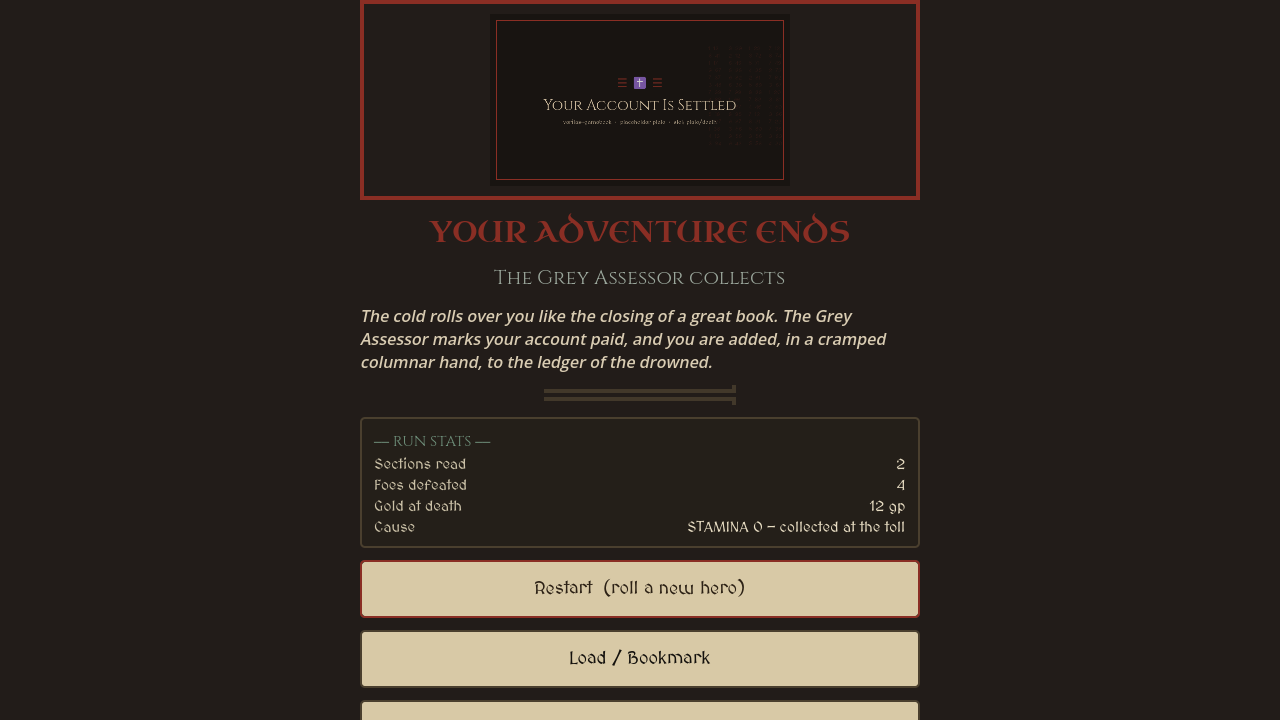
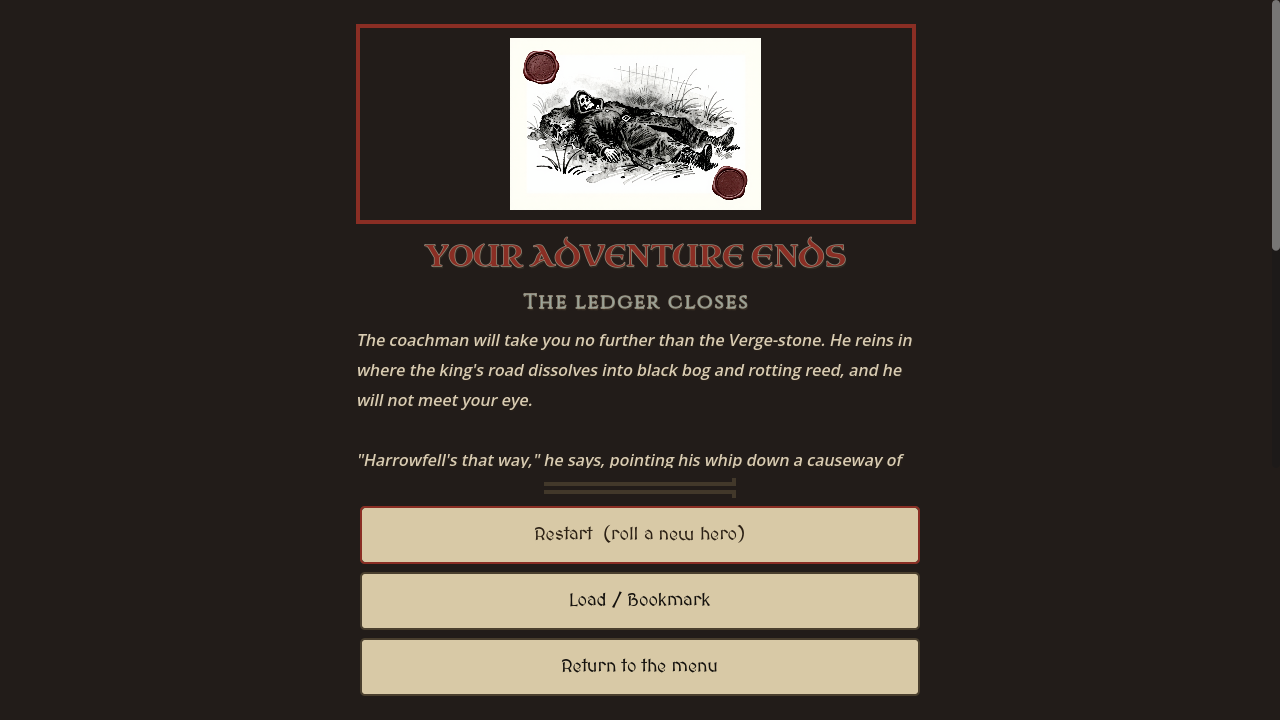
fix(ff-gamebook): death/victory screens no longer cut off — scroll body + PINNED action footer (Restart/Load/Menu always visible+reachable); Load now opens the slot picker. + harvest doc (Veritas/Sorcery/Prince Jerian)

Changed region(s): [[0.2812, 0.0, 0.7188, 1.0], [0.9688, 0.0, 1.0, 0.3361], [0.2812, 0.2444, 0.3125, 0.275]]

diff --git a/docs/inspiration/ff-gamebook/HARVEST_VERITAS_SORCERY.md b/docs/inspiration/ff-gamebook/HARVEST_VERITAS_SORCERY.md
@@ -1,0 +1,114 @@
+# Harvest — Veritas Tales · inkle *Sorcery!* · *Prince Jerian* / *Sir Brante* → `ff-gamebook`
+
+> **Purpose.** Focused idea-harvest from three reference games for our illustrated Fighting-Fantasy gamebook (`ff-gamebook`, SP + MP + dual DM). This *supplements* the existing [`INSPIRATION.md`](INSPIRATION.md) (FF canon + Tin Man + a first Sorcery! pass) and [`../../gdd/ff-gamebook/GDD.md`](../../gdd/ff-gamebook/GDD.md) — it captures what those docs **don't already cover** and turns it into a ranked "fold into FF" list. Web-research → doc only; no template/code touched.
+>
+> **Why these three.** Two are the *namesakes of our art lanes*: **Veritas Tales** = the `veritas-gamebook` ink+watercolor FF-plate style (default, ship-ready); **Sir Brante** (and its same-studio successor **Prince Jerian**) = the `sir-brante` sepia-engraving variant. Sorcery! is the immersion/UX gold standard Jesus flagged.
+>
+> **IP stance (unchanged).** We harvest **mechanics + UX patterns only**. All world, art, monsters, text, spell names, faction names, and the "deaths economy" framing ship as **original NoxDev content** in *The Grey Tithe*. No trademarks, no reproduced text/art. Every idea below is genre-mechanic, not a reproducible asset.
+
+---
+
+## A. Veritas Tales: Witch of the Dark Castle
+
+**What it is.** A "reading-style" fantasy adventure RPG (Steam 4508570; Digitalis Publishing / 15 Industry; July 8 2026; **Very Positive**, 87% of 159). Explicitly an homage to *GrailQuest, Sorcery!, Fighting Fantasy* — i.e. the exact lineage of our flagship. 150,000+ words, 20+ hrs, 300+ hand-drawn illustrations by one ex-Vanillaware artist (Nishimura) over six years; score by Hitoshi Sakimoto (*FF Tactics, Vagrant Story*). No generative AI ("a soul only found in something truly handmade"). This is the closest living relative to what we're building, done gorgeously — study it hard.
+
+**What it does well (specifics):**
+
+1. **The "magical tome on a study desk" diegetic frame — stronger than "the page is sacred."** The whole game *is* a book open on a desk, and the character sheet, stats, inventory, **dice, coins, and pencils are physically laid out on the desk beside the tome** — permanently visible, not hidden behind a menu button. It's the printed-FF ritual (photocopied Adventure Sheet + two d6 on the table) rendered literally. Reviewers single this out as the standout design.
+2. **The frame is also a *story* device.** Reviewers praise moments where "the world of the book and the world of the study become blurred" — the desk/reader layer is diegetic *and* narratively active, not just chrome. A meta-frame with payoff.
+3. **Living, emoting hero portrait.** Your chosen character *stands and animates beside the text*, reacting/emoting as the story progresses (Vanillaware-style). Enemy/ally portraits carry deliberate hand-drawn roughness (visible linework, imperfections) — the "handmade" look is a feature, and maps 1:1 onto our `veritas-gamebook` plate style.
+4. **Class pick shapes the whole run + the ruleset.** Choose **Warrior or Mage** at start. Combat is dice-driven — hit resolved by roll, **damage = difference between winner's attack stat and loser's defense** (a margin-of-success damage model, richer than FF's flat "−2 STAMINA"). Warriors do basic attacks; **Mages cast spells that *bypass the initiative roll*** — class asymmetry expressed as a combat-rules difference, not just flavor.
+5. **Three route types per encounter: combat / negotiation / evasion — all viable.** Not every gate is a fight; the same obstacle can be talked past, dodged, or fought. Choices + rolls fork the outcome.
+6. **Humane death by design: rewind-to-before-the-fatal-encounter + save-anywhere.** On death you rewind to right before the killing blow; it openly "encourages replaying and save-scumming." This is exactly our **Rewind** save mode, validated by a Very-Positive audience.
+7. **Two-run "zapping" replay (RE2-inspired).** Finish one character and it flips straight into the other's playthrough; the second run *sees the consequences of the first*, and **items you collected in run 1 disappear in run 2**. A built-in, mechanics-driven reason for the "branching second playthrough with new outcomes."
+
+**Honest weaknesses (lessons for us):**
+- **Too many "guess-and-die" decisions** — choices that kill with no fair signal. Our authoring validator + "conditional choices show their reason" rule must prevent blind-death gates (or gate them behind an explicit lethal-difficulty mode).
+- **No signposting of whether a True Ending exists** — players couldn't tell if replay was worthwhile. We should make completion state / remaining-endings legible (ties into our Victory + Gallery screens).
+
+---
+
+## B. inkle — *Sorcery!* (deeper pass; supplements INSPIRATION §3.3-B3)
+
+INSPIRATION.md already covers the hand-drawn 3D travel-map, effort-slider combat, editable "the story remembers" rewind, and spelling-as-magic. **New/sharper detail worth folding:**
+
+1. **Spellcasting is a genuine sub-game with real numbers.** 48 spells, **each a 3-letter word**; the 6 common ones are cheap (**3 STAMINA**), advanced/situational ones **require a carried item** to cast. **Wrong spell → it fizzles and still costs STAMINA.** So the spellbook itself is a puzzle you *learn* (which letters, which context, which item) — memory + risk, not a menu pick.
+2. **The spell UI evolved for a reason — a concrete design lesson.** v1 spelling was "line up letters through die-cut holes in the paper" — pretty but *fiddly, with no screen room for tutorial/among-context help*, so players had to memorize everything. v2 replaced it with the **"spell globe"**: a letter-covered sphere that's "basically a pretty touch keyboard," diegetic **but** with room for contextual hints. Takeaway: **diegetic-but-legible beats diegetic-but-fiddly** — build the beautiful version *with* affordances/tutorial space from day one.
+3. **Combat narrated on the fly, spellcasting as a first-class alternative to melee** — the fight reads as prose that responds to how you played, and magic is a parallel resolution path, not a bolt-on.
+
+---
+
+## C. *The Life and Suffering of Prince Jerian* & *Sir Brante* (Schisma Games)
+
+**What they are.** Narrative RPGs about a single life lived across chapters in a rigid, caste-divided dark-fantasy empire. **Sir Brante** = namesake of our `sir-brante` sepia-engraving art lane. **Prince Jerian** (Steam 2936290; Schisma / 101XP; July 20 2026) = same universe, "completely different story," new mechanics for a crown-prince role. Tags span Narrative RPG / Life Sim / Political Sim / Interactive Fiction / Choose-Your-Own-Adventure. These are the reference for **making choices feel *heavy and permanent*** — the opposite pole from Veritas's save-scum-friendly rewind, and a deliberate design tension for us to expose as a mode.
+
+**What they do well (specifics):**
+
+1. **The "Four Deaths" economy — death as a *spendable resource*, not just a fail-state.** In Brante you have **4 Deaths**; the 4th is a **True Death** you can't return from. A **Lesser Death** is often *chosen*: you spend a life to earn a "hearty boon" — stat jumps, reputation, or unlocking events/Destinies otherwise unreachable, plus unique post-death dialogue and a permanent mark. **Dying is a tactical decision with a budget.** This is a brilliant reframing of FF's brutal permadeath into something with agency.
+2. **Chapter / life-path arc with stats that compound.** Childhood → Adolescence → Adult(hood) chapters; stats earned early **carry and derive forward** (adult stats are computed from chapter 1-2 choices), and they steer you toward one of several **mutually-exclusive life paths** (Noble / Priest / Lotless). Long-arc, front-loaded consequence: who you were as a child shapes what's *possible* as an adult.
+3. **Willpower as a meta-currency for passing/boosting checks.** A pooled resource (range ~−10…30) spent to clear stat gates and to buy stat increases (e.g. a costly event trades 15 willpower for +1 stat). Makes "can I do this?" a budgeting decision, not a coin-flip.
+4. **Stat- and relationship-gated choices with visible costs.** Options appear/unlock based on stats, allegiances, and remembered choices; **"characters remember every allegiance and choice"** — they can revere you or become your downfall. Reactive NPC memory as a core loop, not garnish.
+5. **Jerian adds a faction/nation-management layer + sanity.** You balance **treasury, noble houses, clergy, and commoner unrest**; "every decision brings consequences, and your mistakes will be paid for by the entire Empire." A **sanity/psychological-degradation** track ties choices to the protagonist's mind. Non-linearity "develops gradually through chapters" (branches diverge more as you go — a deliberate ramp).
+6. **Permanent, legible weight.** The whole pitch is that nothing resets: injuries, marks, allegiances, spent deaths all persist. Choices feel heavy because the game *never lets you take them back* (no rewind), and it tells you the cost up front.
+
+**Honest weaknesses (lessons for us):**
+- **"Willpower robs the player of agency"** (a common community critique): when a meta-currency gates *too much*, players feel the system, not the story. If we adopt a willpower-like pool, keep it a spice, not the main gate.
+- **Hidden consequences / guess-the-designer** frustration also shows up here — same lesson as Veritas: consequence should be *foreshadowed*, even if not spelled out.
+
+---
+
+## D. Prioritized "fold into FF" list
+
+Ranked within each group. **Legend:** 🟢 build for v1 · 🟡 v1 if cheap / else fast-follow · 🔵 mode/COULD · ⚪ skip or watch. Cross-refs to GDD sections in brackets.
+
+### (a) SYSTEM ideas (mechanics / loops)
+
+1. 🟢 **"Deaths economy" as a save-mode, not just Ironman/Bookmarks/Rewind** *(Brante).* Add a **"Chosen Death"** ruleset to our existing death/save modes [GDD §4]: the hero has a small budget of *lesser deaths*; spending one on a fatal outcome revives you (with a permanent mark/penalty) **and** grants a state boon or unlocks a gated branch — a final "true death" ends the run. It reframes FF lethality as agency, pairs perfectly with our `apply_delta()`/codeword engine (a death = a codeword + a boon delta), and it's *original framing*, not FF canon. **Highest-value single steal here.**
+2. 🟢 **Margin-of-success damage as a per-book combat variant** *(Veritas).* Our data-driven rules layer [GDD §5] already supports per-encounter modifiers; add an optional damage model where **damage = attackStrength − defense** instead of flat −2. Keep faithful FF (flat 2) as default; expose the Veritas-style margin model as a ruleset flag for books that want crunchier fights. Directly answers INSPIRATION §5.6's "2d6 attrition feels thin."
+3. 🟢 **Three-route encounters (fight / talk / evade) as a first-class encounter shape** *(Veritas, and FF's own tradition).* Make "negotiation" and "evasion" resolutions as authorable as combat in the encounter schema [GDD §5 Encounter], each with its own stat/roll gate. This is also the natural surface for the AI-DM's intent-routing (see (c)).
+4. 🟡 **Spellbook-as-sub-game (spelling/known-spell puzzle) for a Mage archetype** *(Sorcery! + Veritas Mage).* An optional MAGIC track: a small set of **learnable, item-or-STAMINA-costed spells**, where **casting the wrong/uncontexted spell fizzles and still costs STAMINA**. Model spells as codeword-gated actions with a cost + effect. Class asymmetry (Warrior basic vs Mage bypass-initiative) becomes a ruleset, matching FF's own advanced-attribute pattern (MAGIC/FAITH) [INSPIRATION §2.5]. v1 if a spell archetype is in the shipped adventure; else fast-follow.
+5. 🟡 **Compounding chapter/life-arc stats** *(Brante).* For our ~150-400-section adventure, allow **act/chapter boundaries where earlier choices derive later capabilities** (a "who you became" checkpoint that seeds stats/codewords for the next act). Fits the structured-DM's storylet model [GDD §9a] and gives long-arc weight without a full life-sim.
+6. 🔵 **Faction/pressure meters + reactive NPC memory** *(Jerian).* A few tracked "pressure" gauges (e.g. faction favor / regional unrest) that choices nudge and later sections read. Our codeword/flag store already does booleans+counters [GDD §2.8]; this is presentation + a handful of counters. Great for the structured-DM's "tension/threat pacing." COULD for v1; strong for a political/kingdom adventure later.
+7. 🔵 **Two-run "zapping" replay with carry-over consequences** *(Veritas).* Structured New-Game+ where a second playthrough (different class/hero) sees the world changed by run 1 and loses/keeps specific items. Leans on our tiny serializable GameState. A replay-value feature, not core — COULD.
+8. ⚪ **Willpower-style meta-currency for checks** *(Brante).* Watch, don't build: community consensus is it can "rob agency." Our LUCK-drain already *is* FF's canonical spend-to-succeed resource; adding a second pool risks the same complaint. Skip unless a specific book needs it.
+
+### (b) SCREEN / UX ideas
+
+1. 🟢 **The "desk beside the tome" reading frame** *(Veritas).* Elevate the Book-Reading View [GDD §6.4]: render the Adventure Sheet, dice, coins/gold, and potions as **persistently-visible objects on the desk around the open book**, not just a HUD strip + a Sheet button. This is the printed-FF ritual made literal and is Veritas's most-praised idea — and it *is* our `veritas-gamebook` art lane. Highest-value UX steal. (Keep it responsive: desk on desktop/landscape, collapsible on mobile portrait.)
+2. 🟢 **Living, emoting hero portrait beside the text** *(Veritas).* A standing character illustration that reacts to beats (wound, luck, dread) — even a few swappable expression plates per hero, driven by state, sells "alive." Feeds our `veritas-gamebook` + optional `nxdv_knight` hero plates [GDD §7]; register expression states as asset slots in the Studio manifest [GDD §10a].
+3. 🟢 **Foreshadow consequences; make completion legible** *(Veritas + Brante lessons).* Two concrete UX rules: (i) never ship an *unsignalled* insta-death choice in default difficulty — lethal gates get atmospheric foreshadowing or a visible lock/reason [GDD §6.5]; (ii) the Victory/Gallery screens [GDD §6.13/6.15] should show endings-found / completion so players know replay is worthwhile. Cheap, and directly fixes the two flaws reviewers cite.
+4. 🟡 **Diegetic-but-legible spell UI (the "spell globe" lesson)** *(Sorcery!).* If we build the Mage track, build the beautiful diegetic caster **with tutorial/contextual space from day one** — Sorcery! shipped fiddly (letters-through-holes) then had to rebuild. Don't repeat their v1. Fold into WIREFRAMES if the spell system is greenlit.
+5. 🔵 **Sorcery!-style travel-map as the movement UI** *(Sorcery!).* Already a COULD in the GDD [§6.10, §13-COULD]; nothing changes — noting the deeper detail (day/night, route-plotting, map *is* movement) is confirmed and belongs in that optional mode, not the faithful default.
+6. 🔵 **Chosen-Death moment screen** *(Brante).* If we adopt the Deaths economy (a.1), it needs its own beat: a somber "spend a death?" decision screen showing the cost (the mark/penalty) vs the boon — reuse the Death Screen [GDD §6.12] shell with a choice instead of a dead-end.
+
+### (c) Pairs with our MP + AI-DM
+
+1. 🟢 **Three-route encounters are the AI-DM's home turf** *(Veritas → GDD §9b).* The fight/talk/evade encounter shape (a.3) is exactly the "legal choices the structured DM exposes" that the AI-DM maps free-text intent onto ("I try to bribe the guard" → the negotiation route). Building encounters this way makes the AI-DM's intent-routing land on real, authored, engine-authoritative options — no hallucinated actions.
+2. 🟢 **Reactive NPC/faction memory is shared, DM-narrated state** *(Jerian/Brante → GDD §9a).* "Characters remember every allegiance" is just codewords/counters the structured DM already owns; the **AI-DM narrates the *reaction* ("the Steward's jaw tightens — he has not forgotten the toll you refused")** while the engine owns the flag. In co-op, this state is part of the tiny authoritative GameState [GDD §8], so every player sees consistent NPC memory. High-value, low-risk (color over authoritative math).
+3. 🟡 **Deaths economy + co-op = a party revive/sacrifice rule** *(Brante → GDD §8 co-op house rules).* FF ships no party combat rules; the "spend a death for a boon" mechanic gives co-op a natural, dramatic **downed-ally sacrifice/revive** rule (a teammate spends a lesser death to save the party, gaining the mark). Solves a real gap in our co-op design with a mechanic we're already adopting.
+4. 🟡 **AI-DM narrates margin-of-success + Chosen-Death beats** *(Veritas → GDD §9b).* The richer combat math (a.2) and the death-spend moment (a.1) give the AI-DM meatier, state-grounded moments to dramatize in prose ("the blow lands wide of a killing stroke") — color on top of numbers the engine computes. Keeps the DM authoritative-safe.
+
+---
+
+## E. Top 5-8 to fold in (ranked, cross-group)
+
+1. **"Desk beside the tome" reading frame** *(Veritas, b.1)* — the single most distinctive, on-brand UX win; it *is* our `veritas-gamebook` lane made literal. Persistent diegetic sheet/dice/coins around the open book.
+2. **"Chosen Death" save-mode / deaths-as-resource** *(Brante, a.1)* — reframes FF lethality into agency; slots into our existing save-mode + `apply_delta`/codeword engine as original framing; also unlocks a co-op revive rule.
+3. **Three-route (fight/talk/evade) encounters** *(Veritas, a.3 / c.1)* — richer play *and* the perfect surface for the AI-DM's intent-routing; makes the DM land on authored, authoritative options.
+4. **Living, emoting hero portrait beside the text** *(Veritas, b.2)* — cheap "alive" factor, directly feeds our art pipeline + Studio asset slots.
+5. **Reactive NPC/faction memory, DM-narrated** *(Jerian/Brante, c.2)* — codewords we already have; AI-DM narrates the reaction, engine owns the flag; consistent across co-op.
+6. **Margin-of-success combat as a per-book variant** *(Veritas, a.2)* — fixes "2d6 attrition feels thin," faithful FF stays default; DM gets meatier beats to narrate.
+7. **Consequence-foreshadowing + legible completion** *(Veritas/Brante lessons, b.3)* — cheap authoring/UX rules that fix the exact flaws reviewers flagged in both franchises.
+8. **Spellbook-as-sub-game (diegetic-but-legible)** *(Sorcery!+Veritas, a.4/b.4)* — optional Mage track; if built, build the caster UI *with* affordances from day one (don't repeat Sorcery!'s fiddly v1).
+
+**Honest skips:** a second **willpower-style meta-currency** (a.8) — redundant with LUCK-drain and community-criticized; the **generative/new-section DM** stays WON'T-for-v1 (GDD §13); **two-run zapping** (a.7) and **faction meters** (a.6) are good-but-later COULDs, not v1 blockers.
+
+---
+
+### Sources
+- Veritas Tales — [Steam](https://store.steampowered.com/app/4508570/) · [RPG Site review](https://www.rpgsite.net/review/20875-veritas-tales-witch-dark-castle-review) · [Kotaku (Vanillaware artist)](https://kotaku.com/vanillaware-artist-moved-into-the-mountains-for-six-years-to-create-lush-love-letter-to-old-school-rpgs-2000715013) · [Shacknews preview](https://www.shacknews.com/article/149749/veritas-tales-preview-steam-next-fest)
+- inkle *Sorcery!* — [inkle page](https://www.inklestudios.com/sorcery/) · [Postmortem (Game Developer)](https://www.gamedeveloper.com/business/postmortem-i-steve-jackson-s-sorcery-i-series-by-inkle) · [inklecast: combat/dice/maps](https://www.inklestudios.com/2016/02/10/inklecast-sorcery-special2.html)
+- *Prince Jerian* — [Steam](https://store.steampowered.com/app/2936290/) · [Turn Based Lovers](https://turnbasedlovers.com/news/narrative-rpg-the-life-and-suffering-of-prince-jerian-invites-players-to-test-its-opening-chapter/)
+- *Sir Brante* — [Gameplay wiki](https://the-life-and-suffering-of-sir-brante.fandom.com/wiki/Gameplay) · [Lesser death wiki](https://the-life-and-suffering-of-sir-brante.fandom.com/wiki/Lesser_death) · [Wikipedia](https://en.wikipedia.org/wiki/The_Life_and_Suffering_of_Sir_Brante)
+</content>
+</invoke>